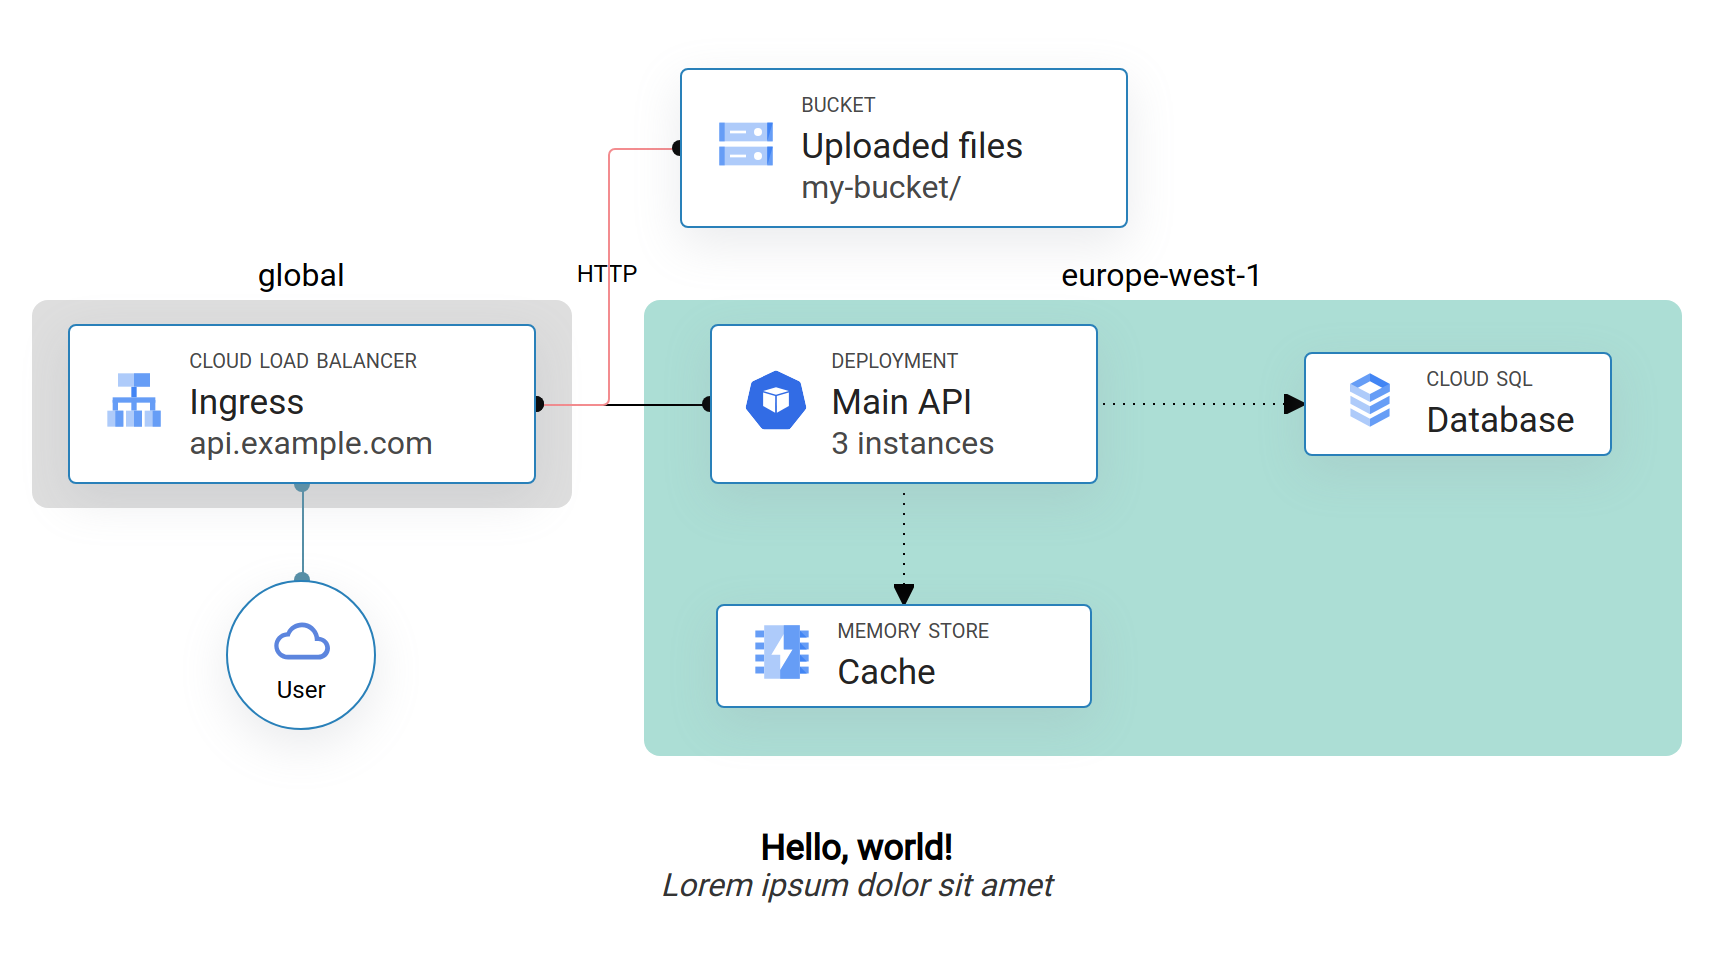
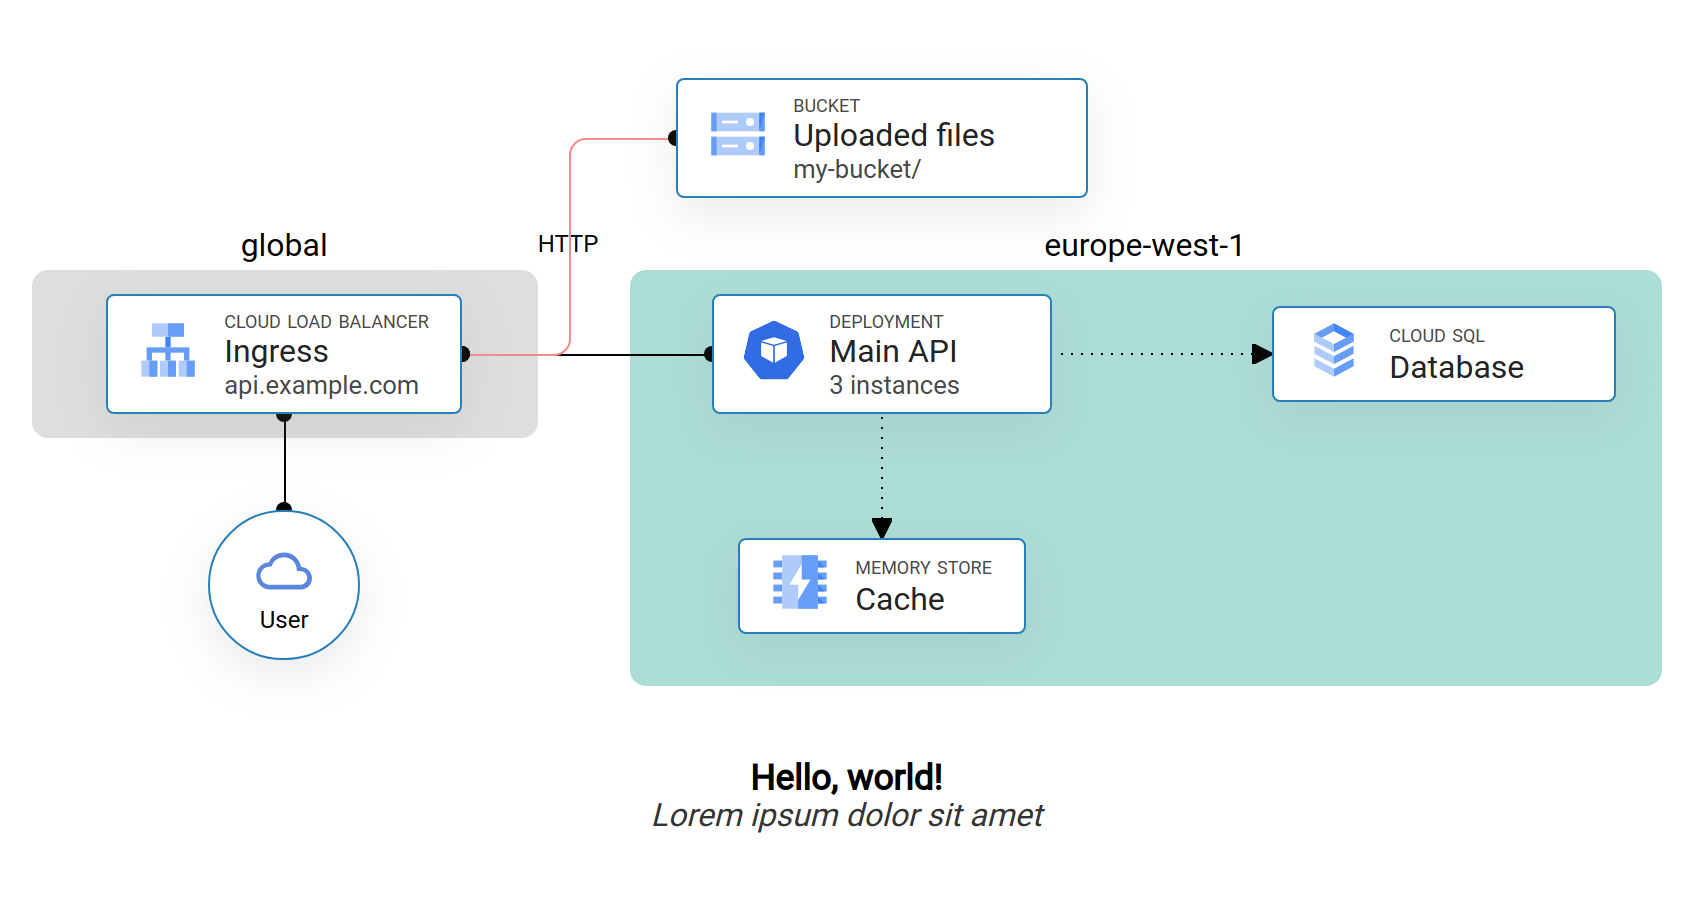
Slightly improve example.

Changed region(s): [[0.0, 0.0614, 0.9835, 0.7982], [0.3688, 0.8289, 0.6147, 0.9211]]

diff --git a/examples/style.css b/examples/style.css
@@ -5,7 +5,7 @@ body {
 .box {
   display: flex;
   align-items: center;
-  padding: 4px 16px;
+  padding: 2px 14px;
   background: white;
   border: 1px solid #2980b9;
   border-radius: 4px;
@@ -22,26 +22,24 @@ body {
   margin: 0;
 }
 
-.box .title {
-  font-size: 1.1rem;
-  font-weight: 400;
-  color: #232323;
-}
-
 .box .function,
 .box .subtitle {
   color: #484848;
 }
 
+.box .title {
+  font-size: 1rem;
+  font-weight: 400;
+  color: #232323;
+}
+
 .box .function {
-  margin-bottom: 2px;
-  font-size: 0.9rem;
+  font-size: 0.8rem;
   font-variant: small-caps;
 }
 
 .box .subtitle {
-  margin-top: 2px;
-  font-size: 1rem;
+  font-size: 0.8rem;
 }
 
 .simple-icon {

diff --git a/examples/diagram.ts b/examples/diagram.ts
@@ -5,6 +5,7 @@ window.onload = () => {
     title: "Hello, world!",
     subtitle: "Lorem ipsum dolor sit amet",
     draggable: true,
+    columnGap: 92,
   });
 
   const user = canvas.add(
